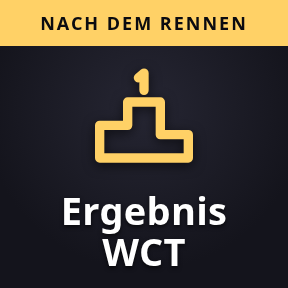
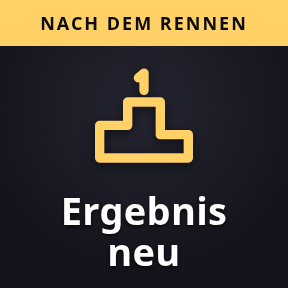
Board look for every league: driver championship 5010/table/wct (PRO/AM, per class in IEC, else one table); /lastrace/wct per class with team rows in IEC (laps = sum of stints)
Claude-Session: https://claude.ai/code/session_01F8JQzYLcsh4WoWN424poxM

Changed region(s): [[0.3438, 0.8125, 0.6562, 0.9375]]

diff --git a/obs_loaders/table_wct.html b/obs_loaders/table_wct.html
@@ -1,0 +1,50 @@
+<!doctype html>
+<html>
+<head>
+<meta charset="utf-8">
+<title>Championship (WCT look) — loader</title>
+<style>
+  html, body {
+    margin: 0; padding: 0; width: 100%; height: 100%;
+    background: rgba(0,0,0,0); overflow: hidden;
+  }
+  iframe {
+    border: 0; width: 100%; height: 100%;
+    background: transparent; display: block;
+  }
+</style>
+</head>
+<body>
+<iframe id="ov" allowtransparency="true"></iframe>
+<script>
+  // LOAD-ONCE loader. It waits until the overlay server first responds, loads
+  // the page exactly ONCE, then stops touching it. The overlay page itself now
+  // recovers from any server hiccup (it keeps polling /status and re-renders),
+  // so the loader must NOT reload the iframe — reloading on every multi-second
+  // server flicker was the visible "blinking" the overlays showed mid-stream.
+  var URL_ = "http://localhost:5010/table/wct";
+  var frame = document.getElementById("ov");
+  var loaded = false;
+
+  function ping() {
+    // no-cors: we only care whether the server answers at all.
+    return fetch(URL_, { mode: "no-cors", cache: "no-store" })
+      .then(function () { return true; })
+      .catch(function () { return false; });
+  }
+
+  function tick() {
+    if (loaded) return;                 // already loaded — never touch it again
+    ping().then(function (up) {
+      if (up) {
+        frame.src = URL_ + (URL_.indexOf("?") < 0 ? "?" : "&") + "r=" + Date.now();
+        loaded = true;                  // done: the overlay page self-heals from here
+      } else {
+        setTimeout(tick, 1500);         // keep retrying ONLY until the first load
+      }
+    });
+  }
+  tick();
+</script>
+</body>
+</html>

diff --git a/iracing_championship.py b/iracing_championship.py
@@ -47,6 +47,7 @@ from flask import Flask, Response, jsonify, render_template_string, request
 
 from iracing_sdk_base import SDKPoller, GridBaseline, SESSION_STATE_RACING, setup_utf8_stdout
 import wct_board
+import class_colors
 setup_utf8_stdout()
 
 try:
@@ -2203,7 +2204,52 @@ setInterval(pollNav, 300); pollNav();
 # championship, paged GESAMT / PRO / AM (or per class), same Stream Deck keys
 # as the grid (5001/nav/...).
 # -----------------------------------------------------------------------------
-def _lastrace_wct(info: dict) -> dict:
+def _class_of(st: dict, races: list):
+    """CLS round results carry no car class: take it from the driver's
+    standings row (carClassName), else from the class most drivers of the
+    same car are in. None = single-class league."""
+    by_id = {str(r.get("iracingMemberId")): r.get("carClassName")
+             for r in (st or {}).get("standings") or [] if r.get("carClassName")}
+    if len(set(by_id.values())) < 2:
+        return None
+    votes: dict = {}
+    for race in races:
+        for r in race.get("results") or []:
+            c = by_id.get(str(r.get("iracingMemberId")))
+            if c:
+                votes.setdefault(r.get("car"), {}).setdefault(c, 0)
+                votes[r.get("car")][c] += 1
+    car_cls = {car: max(v, key=v.get) for car, v in votes.items()}
+    return lambda r: by_id.get(str(r.get("iracingMemberId"))) or car_cls.get(r.get("car")) or "?"
+
+
+def _merge_teams(res: list) -> list:
+    """Team races: CLS lists every DRIVER, team mates share the position
+    (their own teamName can even differ). One row per position: the driver
+    who did the most laps carries the name, laps and status; the best lap is
+    the team's best."""
+    by_pos: dict = {}
+    for r in res:
+        by_pos.setdefault(r.get("position") or 999, []).append(r)
+    out = []
+    for pos in sorted(by_pos):
+        grp = by_pos[pos]
+        main = dict(max(grp, key=lambda r: r.get("laps") or 0))
+        main["laps"] = sum(r.get("laps") or 0 for r in grp)     # each driver's stint
+        if any((r.get("status") or "CLASSIFIED") == "CLASSIFIED" for r in grp):
+            main["status"] = "CLASSIFIED"
+        laps = [r["bestLapMs"] for r in grp if r.get("bestLapMs")]
+        main["bestLapMs"] = min(laps) if laps else None
+        main["fastestLap"] = any(r.get("fastestLap") for r in grp)
+        main["drivers"] = [r.get("name") or "" for r in sorted(grp, key=lambda r: -(r.get("laps") or 0))]
+        out.append(main)
+    top = max((r.get("laps") or 0 for r in out), default=0)
+    for r in out:
+        r["lapsBehind"] = top - (r.get("laps") or 0)
+    return out
+
+
+def _lastrace_wct(info: dict, st: dict = None) -> dict:
     lr = info.get("lastRound") or {}
     league = info.get("league") or {}
     races = lr.get("races") or []
@@ -2226,6 +2272,12 @@ def _lastrace_wct(info: dict) -> dict:
         if r.get("gapMs"):
             return wct_board.fmt_gap(r["gapMs"] / 1000)
         return ""
+
+    class_of = _class_of(st, races)
+    team = any(len({r.get("position") for r in race.get("results") or []}) < len(race.get("results") or [])
+               for race in races)
+    if class_of or team:                         # IEC: per class, one row per team
+        return _lastrace_classes(out, races, class_of, team, multi)
 
     for race in races:
         n = race.get("raceNumber") or 1
@@ -2277,6 +2329,95 @@ def _lastrace_wct(info: dict) -> dict:
     return out
 
 
+def _lastrace_classes(out: dict, races: list, class_of, team: bool, multi: bool) -> dict:
+    """Multiclass and / or team rounds (IEC): one page set per class, class
+    positions and laps behind the class winner. Team races show the team
+    name and NO points — CLS gives points per driver by HIS distance, so a
+    team's row would read 0 (the team table has the real ones)."""
+    def value(r, lead_laps, first):
+        if r.get("status") and r["status"] != "CLASSIFIED":
+            return r["status"]
+        lb = (r.get("lapsBehind") or 0) - lead_laps
+        if lb > 0:
+            return wct_board.laps_text(lb)
+        if r.get("gapMs") and not first:
+            return wct_board.fmt_gap(r["gapMs"] / 1000)
+        return f"{r['laps']} LAPS" if first and r.get("laps") else ""
+    for race in races:
+        n = race.get("raceNumber") or 1
+        res = sorted(race.get("results") or [], key=lambda r: r.get("position") or 999)
+        if team:
+            res = _merge_teams(res)
+        groups: dict = {}
+        for r in res:
+            groups.setdefault(class_of(r) if class_of else "", []).append(r)
+        def speed(k):                            # fastest class first
+            laps = [r["bestLapMs"] for r in groups[k] if r.get("bestLapMs")]
+            return min(laps) if laps else 10 ** 9
+        for ci, k in enumerate(sorted(groups, key=speed)):
+            grp = groups[k]
+            done = [r for r in grp if (r.get("status") or "CLASSIFIED") == "CLASSIFIED"]
+            lead_laps = (done[0] if done else grp[0]).get("lapsBehind") or 0
+            best = min((r for r in grp if r.get("bestLapMs")), key=lambda r: r["bestLapMs"], default=None)
+            rows = []
+            for i, r in enumerate(grp, 1):
+                rows.append({"pos": i, "num": r.get("startNumber") or "",
+                             "name": (r.get("teamName") if team and r.get("teamName") else r.get("name")) or "",
+                             "sub": r.get("car") or "", "value": value(r, lead_laps, i == 1), "fl": r is best,
+                             "pts": None if team else r.get("points")})
+            label = (k or "ERGEBNIS").upper()
+            if multi:
+                label = f"RENNEN {n} {label}" if k else f"RENNEN {n}"
+            sec = {"label": label, "rows": rows}
+            if k:
+                sec["color"] = class_colors.PALETTE[ci % len(class_colors.PALETTE)]
+            out["sections"].append(sec)
+    return out
+
+
+def _table_wct(st: dict) -> dict:
+    """Driver championship in the board look: PRO / AM in Pro/Am seasons,
+    one table per car class in multiclass leagues (IEC), else one table.
+    Positions inside the class, CLS order (tie-breaks) kept; `points` IS the
+    class total in Pro/Am seasons (same as /table)."""
+    league = st.get("league") or {}
+    season = st.get("season") or {}
+    done = season.get("completedRounds")
+    out = {"connected": True, "tab": "STANDINGS", "slug": league.get("slug") or "",
+           "title": " - ".join(x for x in ("MEISTERSCHAFT", league.get("name") or "",
+                                           f"NACH LAUF {done}" if done else "") if x).upper(),
+           "empty": "Noch keine Meisterschaftspunkte", "sections": []}
+    rows = sorted([r for r in st.get("standings") or [] if not r.get("excludedAt")],
+                  key=lambda r: r.get("rank") or 999)
+
+    def board(grp, mark=""):
+        lead = grp[0].get("points") or 0 if grp else 0
+        return [{"pos": i, "num": r.get("startNumber") or "", "name": r.get("name") or "",
+                 "sub": r.get("teamName") or "", "mark": mark,
+                 "value": "" if i == 1 else f"-{lead - (r.get('points') or 0)}",
+                 "pts": r.get("points") or 0} for i, r in enumerate(grp, 1)]
+    if season.get("proAmEnabled") and any(r.get("proAmClass") for r in rows):
+        for cls, col in (("PRO", wct_board.PRO_COLOR), ("AM", wct_board.AM_COLOR)):
+            grp = sorted([r for r in rows if r.get("proAmClass") == cls],
+                         key=lambda r: (-(r.get("points") or 0), r.get("rank") or 999))
+            if grp:
+                out["sections"].append({"label": cls, "color": col, "rows": board(grp)})
+        return out
+    classes = []
+    for r in rows:
+        if r.get("carClassName") and r["carClassName"] not in classes:
+            classes.append(r["carClassName"])        # best-ranked class first
+    if len(classes) > 1:
+        for ci, c in enumerate(classes):
+            grp = [r for r in rows if r.get("carClassName") == c]
+            out["sections"].append({"label": c.upper(), "color": class_colors.PALETTE[ci % len(class_colors.PALETTE)],
+                                    "rows": board(grp)})
+        return out
+    if rows:
+        out["sections"].append({"label": "FAHRER", "rows": board(rows)})
+    return out
+
+
 def _teams_wct(st: dict) -> dict:
     league = st.get("league") or {}
     season = st.get("season") or {}
@@ -2312,7 +2453,21 @@ def lastrace_wct_data():
     if not d.get("info"):
         return jsonify({"connected": True, "tab": "RESULTS", "title": "", "sections": [],
                         "empty": d.get("error") or "Lade CLS-Daten …"})
-    return jsonify(_lastrace_wct(d["info"]))
+    return jsonify(_lastrace_wct(d["info"], fetcher.get().get("data") or {}))
+
+
+@app.route("/table/wct")
+def table_wct_page():
+    return Response(wct_board.board_page("/table/wct/data"), mimetype="text/html")
+
+
+@app.route("/table/wct/data")
+def table_wct_data():
+    _apply_detected_league(poller.get())
+    st = fetcher.get().get("data") or {}
+    if not st:
+        return jsonify({"connected": True, "tab": "STANDINGS", "title": "", "sections": [], "empty": "Lade CLS-Daten …"})
+    return jsonify(_table_wct(st))
 
 
 @app.route("/teams/wct")

diff --git a/test_wct_board.py b/test_wct_board.py
@@ -118,6 +118,45 @@ check("W3 5010 /lastrace/wct page", b"/lastrace/wct/data" in cc.get("/lastrace/w
 check("W4 5010 /teams/wct page", b"/teams/wct/data" in cc.get("/teams/wct").data)
 check("W5 /lastrace/pro still works", cc.get("/lastrace/pro").status_code == 200)
 
+# ---- IEC: per class, one row per team (CLS lists drivers, no class) ----------
+def res(pos, name, team, car, laps, mid, status="CLASSIFIED", best=90000, pts=10):
+    return {"position": pos, "name": name, "teamName": team, "car": car, "laps": laps, "lapsBehind": 0,
+            "iracingMemberId": mid, "status": status, "bestLapMs": best, "points": pts, "startNumber": str(pos)}
+iec = {"league": {"name": "CAS IEC", "slug": "cas-iec"},
+       "lastRound": {"number": 2, "track": "Fuji", "races": [{"raceNumber": 1, "results": [
+           res(1, "A1", "LMP Team", "Dallara P217", 100, "1", best=80000),
+           res(2, "B1", "Team B", "Dallara P217", 60, "2", best=81000), res(2, "B2", "Team B x", "Dallara P217", 39, "3"),
+           res(3, "G1", "GT Team", "BMW M4 GT3", 95, "4", best=90000),
+           res(4, "G2", "GT Two", "BMW M4 GT3", 50, "5", best=89000), res(4, "G3", "GT Two", "BMW M4 GT3", 44, "99"),
+           res(5, "G4", "GT Out", "Ferrari 296 GT3", 10, "6", status="DSQ")]}]}}
+iec_st = {"standings": [{"iracingMemberId": m, "carClassName": c} for m, c in
+                        (("1", "LMP2"), ("2", "LMP2"), ("3", "LMP2"), ("4", "GT3"), ("5", "GT3"), ("6", "GT3"))]}
+d = ch._lastrace_wct(iec, iec_st)
+labels = [s["label"] for s in d["sections"]]
+check("I1 one page set per class, fastest first", labels == ["LMP2", "GT3"], str(labels))
+lmp, gt = d["sections"][0]["rows"], d["sections"][1]["rows"]
+check("I2 team mates merged, team name shown", [r["name"] for r in lmp] == ["LMP Team", "Team B"], str(lmp))
+check("I3 team laps = sum of stints", lmp[1]["value"] == "+1 LAP" and lmp[0]["value"] == "100 LAPS", str(lmp))
+check("I4 class positions + unlisted driver's class from the car", [r["pos"] for r in gt] == [1, 2, 3] and gt[1]["name"] == "GT Two", str(gt))
+check("I5 no points in a team race, DSQ shown, class FL", all(r["pts"] is None for r in gt) and gt[2]["value"] == "DSQ" and gt[1]["fl"], str(gt))
+
+# ---- driver championship /table/wct -------------------------------------------
+def srow(rank, name, pts, **kw):
+    return dict({"rank": rank, "name": name, "points": pts, "teamName": "T", "startNumber": str(rank)}, **kw)
+d = ch._table_wct({"league": {"name": "CAS PCC"}, "season": {"completedRounds": 8},
+                   "standings": [srow(1, "Remo", 484), srow(2, "Maurice", 435), srow(3, "X", 0, excludedAt="x")]})
+check("C1 one table, gap to the leader", d["title"] == "MEISTERSCHAFT - CAS PCC - NACH LAUF 8" and
+      [(r["pos"], r["value"], r["pts"]) for r in d["sections"][0]["rows"]] == [(1, "", 484), (2, "-49", 435)], str(d))
+d = ch._table_wct({"league": {}, "season": {"proAmEnabled": True}, "standings": [
+    srow(1, "P", 90, proAmClass="PRO"), srow(2, "A", 182, proAmClass="AM"), srow(3, "A2", 100, proAmClass="AM")]})
+check("C2 Pro/Am: PRO then AM, class positions", [(s["label"], [r["pos"] for r in s["rows"]]) for s in d["sections"]]
+      == [("PRO", [1]), ("AM", [1, 2])], str(d))
+d = ch._table_wct({"league": {}, "season": {}, "standings": [
+    srow(1, "L", 203, carClassName="LMP2"), srow(5, "G", 124, carClassName="GT3"), srow(2, "L2", 191, carClassName="LMP2")]})
+check("C3 multiclass: one table per class", [(s["label"], [r["name"] for r in s["rows"]]) for s in d["sections"]]
+      == [("LMP2", ["L", "L2"]), ("GT3", ["G"])], str(d))
+check("C4 /table/wct page (not the /table/<cls> route)", b"/table/wct/data" in cc.get("/table/wct").data)
+
 print()
 print("ALL PASS" if not failures else f"FAILURES: {failures}")
 sys.exit(1 if failures else 0)

diff --git a/make_streamdeck_icons.py b/make_streamdeck_icons.py
@@ -191,8 +191,9 @@ OVERLAY_ICONS = [
     ("results",       "post",   "podium",    "Ergebnis"),
     ("results_lite",  "post",   "list",      "Ergebnis Lite"),
     ("results_solid", "post",   "podium",    "Ergebnis Abspann"),
-    ("results_wct",   "post",   "podium",    "Ergebnis WCT"),
-    ("lastrace_wct",  "pre",    "podium",    "Letzte Runde WCT"),
+    ("results_wct",   "post",   "podium",    "Ergebnis neu"),
+    ("lastrace_wct",  "pre",    "podium",    "Letzte Runde neu"),
+    ("table_wct",     "pre",    "trophy",    "Tabelle neu"),
     ("teams_wct",     "pre",    "trophy",    "Teamwertung"),
     ("champ_solid",   "post",   "trophy",    "Meisterschaft Abspann"),
     ("highlight_card", "post",  "film",      "Highlight Titel"),

diff --git a/make_obs_loaders.py b/make_obs_loaders.py
@@ -73,6 +73,7 @@ OVERLAYS = [
     # WCT broadcast look (2026-10-25): paged, Stream Deck 5001/nav/...
     ("results_wct",   "Results (WCT look)", 5002, "/wct"),
     ("lastrace_wct",  "Last Round (WCT look)", 5010, "/lastrace/wct"),
+    ("table_wct",     "Championship (WCT look)", 5010, "/table/wct"),
     ("teams_wct",     "Team Standings (WCT look)", 5010, "/teams/wct"),
     ("champ_solid",   "Championship (Abspann, opaque)", 5010, "/overlay/solid"),
     ("rsvp",          "RSVP Overview",    5010, "/rsvp"),

diff --git a/CLAUDE.md b/CLAUDE.md
@@ -178,6 +178,25 @@ that isn't already prefix-matched.
 
 ## Recent sessions
 
+**October 25, 2026 (board look for PCCD + IEC too; driver championship
+`5010/table/wct`):** Thomas: the new tables for Porsche Cup and IEC too, not
+only WCT. The board pages were already league-neutral (5010 follows the
+detected / configured league), but: (1) NEW `/table/wct` (`_table_wct`) =
+the DRIVER championship: PRO / AM in Pro/Am seasons, one table per
+carClassName in multiclass (IEC), else one "FAHRER" table; class positions,
+"-N" behind the class leader, sub = team, excluded drivers dropped. (2)
+`/lastrace/wct` in IEC showed one mixed driver list — CLS round results have
+NO class and list every DRIVER (team mates share the position, their
+teamName can even differ). `_class_of()` joins the standings' carClassName
+(car → majority class for drivers not in the standings), `_lastrace_classes()`
+= one section per class (fastest best lap first, class_colors.PALETTE),
+`_merge_teams()` = one row per position, laps = SUM of the stints (each
+driver's lapsBehind is his own), team name shown, NO points (CLS gives points
+per driver by his own distance — teams would read 0; the team table has
+them). Icons renamed "… neu" (files unchanged), loader table_wct.html,
+OBS_OVERLAYS. test_wct_board +9; rendered with live CLS (IEC R2 Fuji, PCCD
+5th). Restart 5010.
+
 **October 25, 2026 (normal tower, RACE: only pos · name · brand ·
 interval · pit):** Thomas: the normal tower (not /cars) shows in a race only
 position, driver name, brand logo, interval and a pit column — "L5" = last

diff --git a/OBS_OVERLAYS.md b/OBS_OVERLAYS.md
@@ -89,7 +89,8 @@ Quelle: `?auto=1` (+ `?secs=`), `?cycle=20` (lastrace / table) oder
 | Rennergebnis (Lite) | 5003 | `results_lite.html` | ≈ 780 × 900 |
 | Rennergebnis, deckend (Abspann) | 5002 `/solid` | `results_solid.html` | ✓ 1920 × 1080 |
 | Endergebnis im WCT-Look (GESAMT / PRO / AM bzw. je Klasse, Seiten zu 10) | 5002 `/wct` | `results_wct.html` | 900 × 620 |
-| Letzte Runde (CLS) im WCT-Look (Rennen, PRO / AM mit Klassenpunkten, Wertung) | 5010 `/lastrace/wct` | `lastrace_wct.html` | 900 × 620 |
+| Letzte Runde (CLS) im WCT-Look (Rennen, PRO / AM mit Klassenpunkten, Wertung; IEC je Klasse mit Teamnamen) | 5010 `/lastrace/wct` | `lastrace_wct.html` | 900 × 620 |
+| Fahrer-Meisterschaft (CLS) im WCT-Look (PRO / AM, IEC je Klasse, sonst eine Tabelle) | 5010 `/table/wct` | `table_wct.html` | 900 × 620 |
 | Team-Meisterschaft (CLS) im WCT-Look (IEC: je Klasse) | 5010 `/teams/wct` | `teams_wct.html` | 900 × 620 |
 | Meisterschaft, deckend (Abspann) | 5010 `/overlay/solid` | `champ_solid.html` | ✓ 1920 × 1080 (`?zoom=`) |
 | Highlight-Video Titelkarte (nur während der Aufnahme, HIGHLIGHTS.md) | 5000 `/highlights/card` | `highlight_card.html` | ≈ 1100 × 110 (`?zoom=`) |
